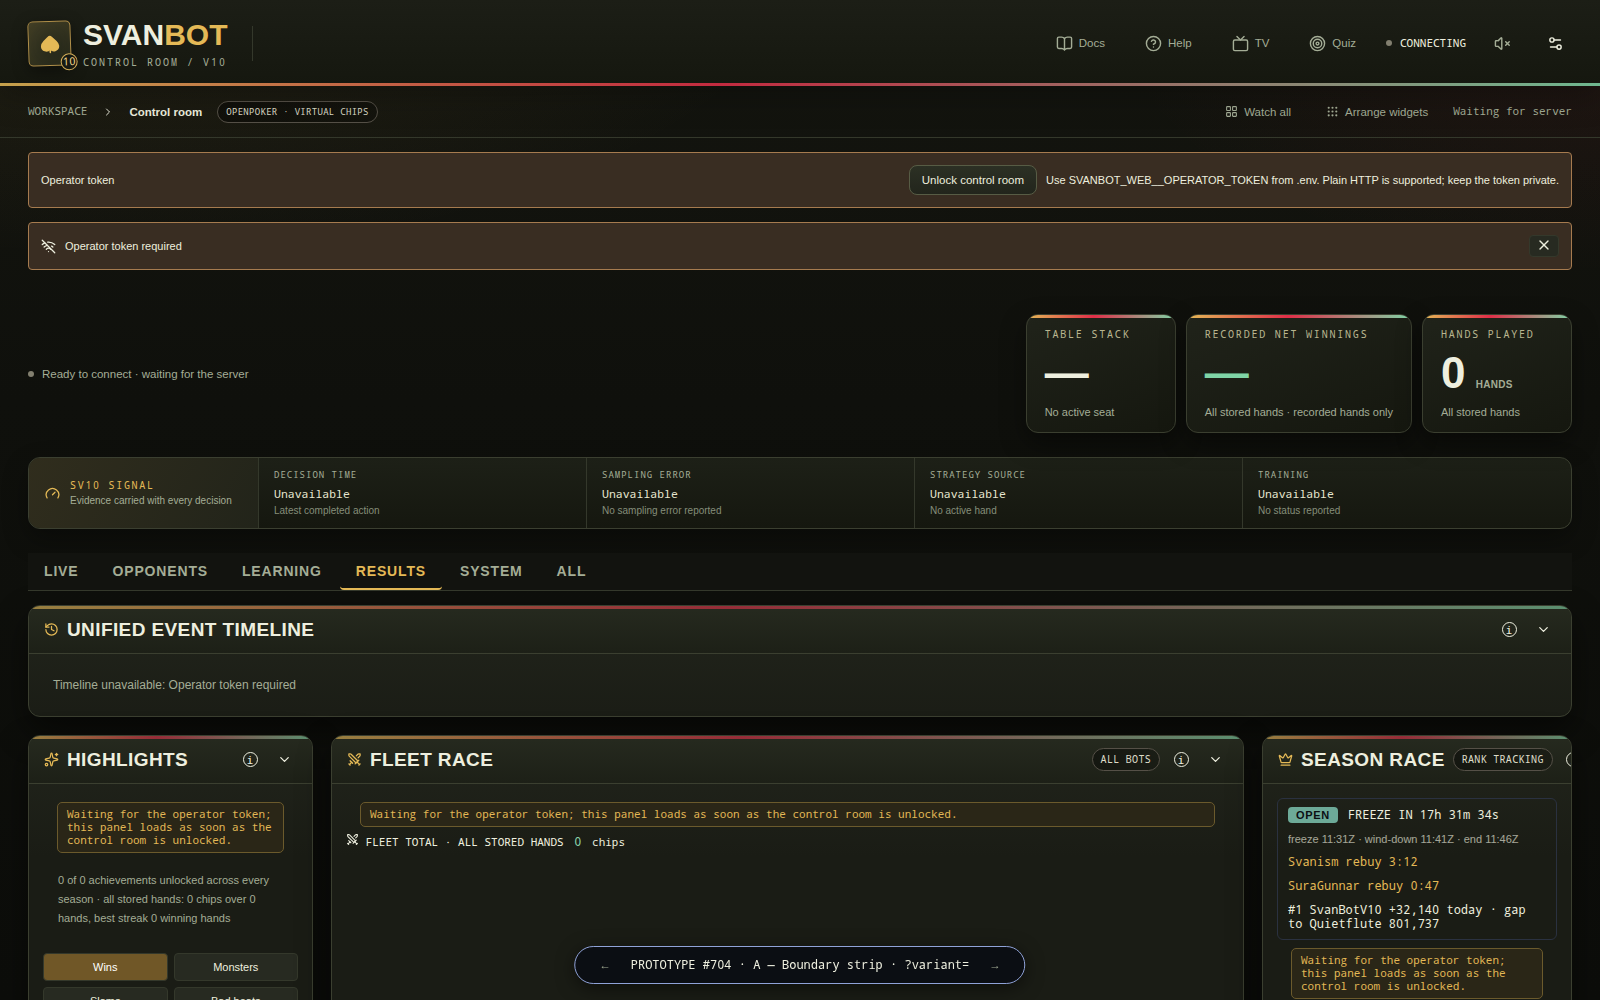
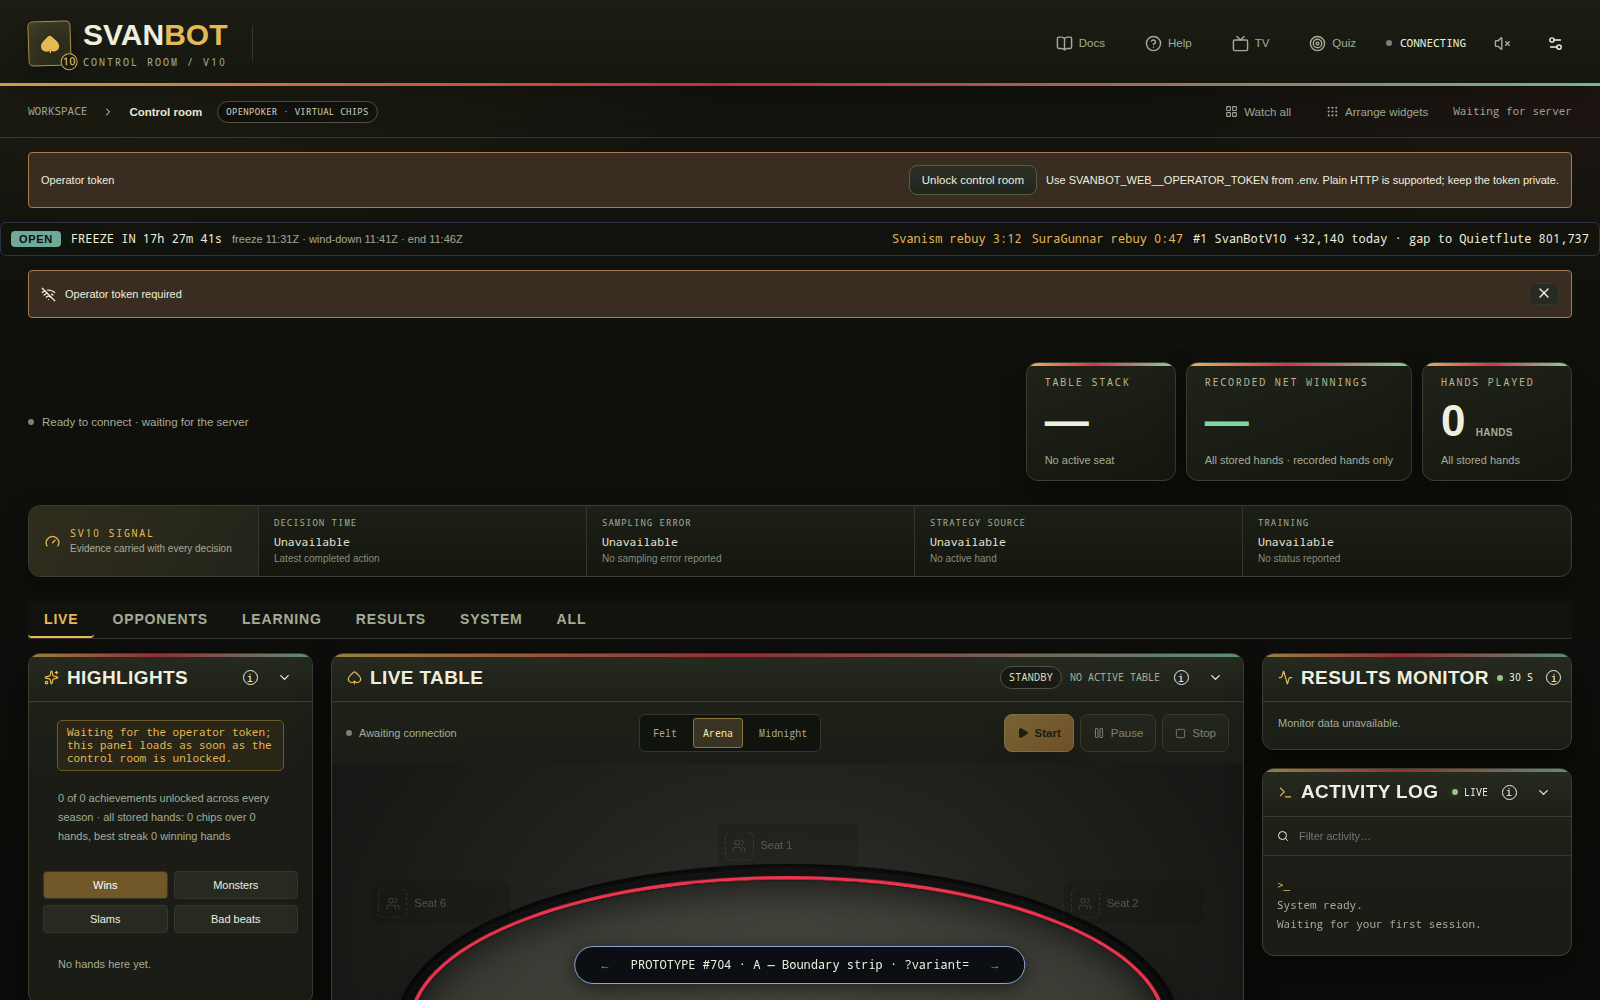
web: mount the boundary prototype app-level and refresh the shots
The first cut mounted the variants inside the Season race panel, so the default Live view showed nothing and the operator flipping ?variant= saw no difference. Mount at app shell level instead (which is where the decided strip lives), reverted from fun.tsx, and replaced the screenshots with default-view captures at full app width.

Generated-by: claude-code/deepseek-flash

diff --git a/web/src/main.tsx b/web/src/main.tsx
@@ -21,6 +21,7 @@ import { PlayerCardHost, openPlayerCard } from './playercard';
 import { registerNames, SELECT_BOT_EVENT } from './playername';
 import { AccuracyPanel, QuizPage, WiringPanel } from './games';
 import { ActionTicker, BadgeRace, CalibrationPanel, FleetRace, HighlightsPanel, LivePulse, RivalsPanel, SeasonRace, StoriesPanel, WinToasts } from './fun';
+import { BoundaryPrototype } from './prototype-boundary'; // PROTOTYPE #704 — delete with the branch
 import type { Bot, Hand, Opponent, ReplayEvent, Snapshot, TableBot } from './types';
 import { format, signed, percent, suitMap, dotClass, ThemeToggle, api, Card, Panel, Empty } from './ui';
 import { time, TURN_DEADLINE_S } from './format';
@@ -210,6 +211,7 @@ function App() {
     <DashboardHeader bots={snapshot?.bots || []} selectedSlot={bot?.slot} connected={connected} onSelect={slot=>{setSelected(slot);writeLocal('svan-slot',String(slot));}} onSettings={()=>setSettings(true)}/>
     <div className="workspace-header"><div className="breadcrumb"><span>WORKSPACE</span><ChevronRight size={12}/><b>{watchAll ? 'Fleet overview' : bot?.name || 'Control room'}</b><span className="environment-tag">OPENPOKER · VIRTUAL CHIPS</span></div><div className="workspace-tools"><button className={watchAll ? 'text-button active' : 'text-button'} onClick={()=>setWatchAll(!watchAll)}><LayoutGrid size={13}/>{watchAll ? 'Focus table' : 'Watch all'}</button><button className={arranging ? 'text-button active' : 'text-button'} aria-pressed={arranging} onClick={()=>setArranging(!arranging)}><Grip size={13}/>{arranging ? 'Arranging…' : 'Arrange widgets'}</button><span className="updated">{snapshot ? `Updated ${time(snapshot.updated, { seconds: true })}` : 'Waiting for server'}</span></div></div>
     {loginRequired && <form className="error-banner" onSubmit={event=>{event.preventDefault();setLoginAttempt(value=>value+1);}}><label>Operator token <input type="password" autoComplete="off" aria-label="Operator token" value={operatorToken} onChange={event=>setOperatorToken(event.target.value)}/></label><button className="button" type="submit">Unlock control room</button><span>Use SVANBOT_WEB__OPERATOR_TOKEN from .env. Plain HTTP is supported; keep the token private.</span></form>}
+    <BoundaryPrototype />{/* PROTOTYPE #704 — delete with the branch: app-level so every view shows it */}
     {error && <div className="error-banner" role="alert"><WifiOff size={15}/>{error}<button aria-label="Dismiss error" onClick={()=>setError('')}><X size={16}/></button></div>}
     {!connected && snapshot && <div className="connection-banner"><Radio size={14}/>Connection interrupted. Showing the last received state; controls reconnect automatically.</div>}
     {helpRoute.startsWith("#help") && <HelpPage/>}
